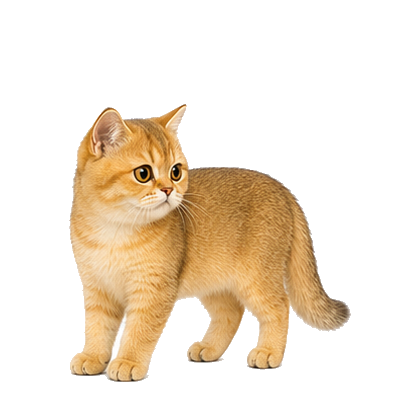
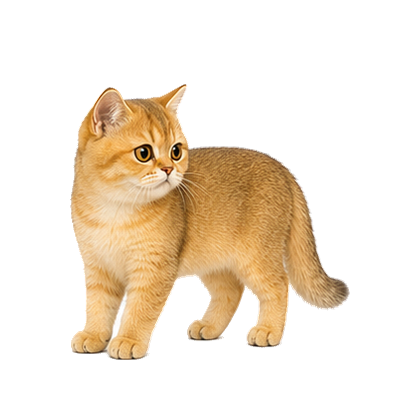
Fix desktop pet sprite transparency and padding

Changed region(s): [[0.1548, 0.1857, 0.8357, 0.9286]]

diff --git a/src/pet.js b/src/pet.js
@@ -17,11 +17,12 @@ const sizeMap = {
   large: 235,
 };
 
-const WALK_SCALE = 2.4;
+const WALK_SCALE = 3.6;
 const WALK_IN_PLACE_DURATION_RANGE = [3800, 5200];
 const IDLE_DELAY_RANGE = [60000, 90000];
 const WALK_FRAME_INTERVAL = 480;
 const TELEPORT_FADE_MS = 260;
+const WALK_LAYOUT_SETTLE_MS = 180;
 
 const actionSprites = {
   idle: "assets/pet/actions/idle.png",
@@ -134,6 +135,8 @@ function applyOptions() {
 
   if (!options.enabled) {
     stopMovement();
+  } else {
+    elements.image.classList.remove("is-hidden");
   }
 }
 
@@ -193,8 +196,15 @@ async function walkTo(targetX, targetY, bounds) {
   const walkPosition = anchoredWalkPosition(startX, startY, idleSize, size, bounds);
 
   setFacing(targetX < startX ? -1 : 1);
+  await fadePet(true);
+  if (token !== moveToken || !options.enabled) return;
+
   await invoke("move_pet_window", { x: walkPosition.x, y: walkPosition.y, size });
   startWalking();
+  await wait(WALK_LAYOUT_SETTLE_MS);
+  if (token !== moveToken || !options.enabled) return;
+
+  await fadePet(false);
 
   await wait(randomBetween(WALK_IN_PLACE_DURATION_RANGE[0], WALK_IN_PLACE_DURATION_RANGE[1]));
   if (token !== moveToken || !options.enabled) return;
@@ -232,6 +242,7 @@ function stopMovement() {
   window.clearTimeout(moveTimer);
   moveToken += 1;
   stopWalking();
+  elements.image.classList.remove("is-hidden");
 }
 
 function setStaticAction(action) {
@@ -245,6 +256,7 @@ function setRandomIdleAction() {
 
 function setFacing(direction) {
   elements.image.style.setProperty("--pet-face", String(direction));
+  elements.image.style.setProperty("--pet-walk-shift", direction > 0 ? "-10%" : "10%");
 }
 
 function resetReminderTimer() {

diff --git a/src/pet.css b/src/pet.css
@@ -27,6 +27,7 @@ body {
 
 .pet-image {
   --pet-face: 1;
+  --pet-walk-shift: 0%;
   width: 88%;
   height: 88%;
   object-fit: contain;
@@ -40,8 +41,9 @@ body {
 }
 
 .pet-image.is-walking {
-  width: 55%;
-  height: 55%;
+  width: 38%;
+  height: 38%;
+  transform: translateX(var(--pet-walk-shift)) scaleX(var(--pet-face));
 }
 
 .pet-image.is-hidden {
